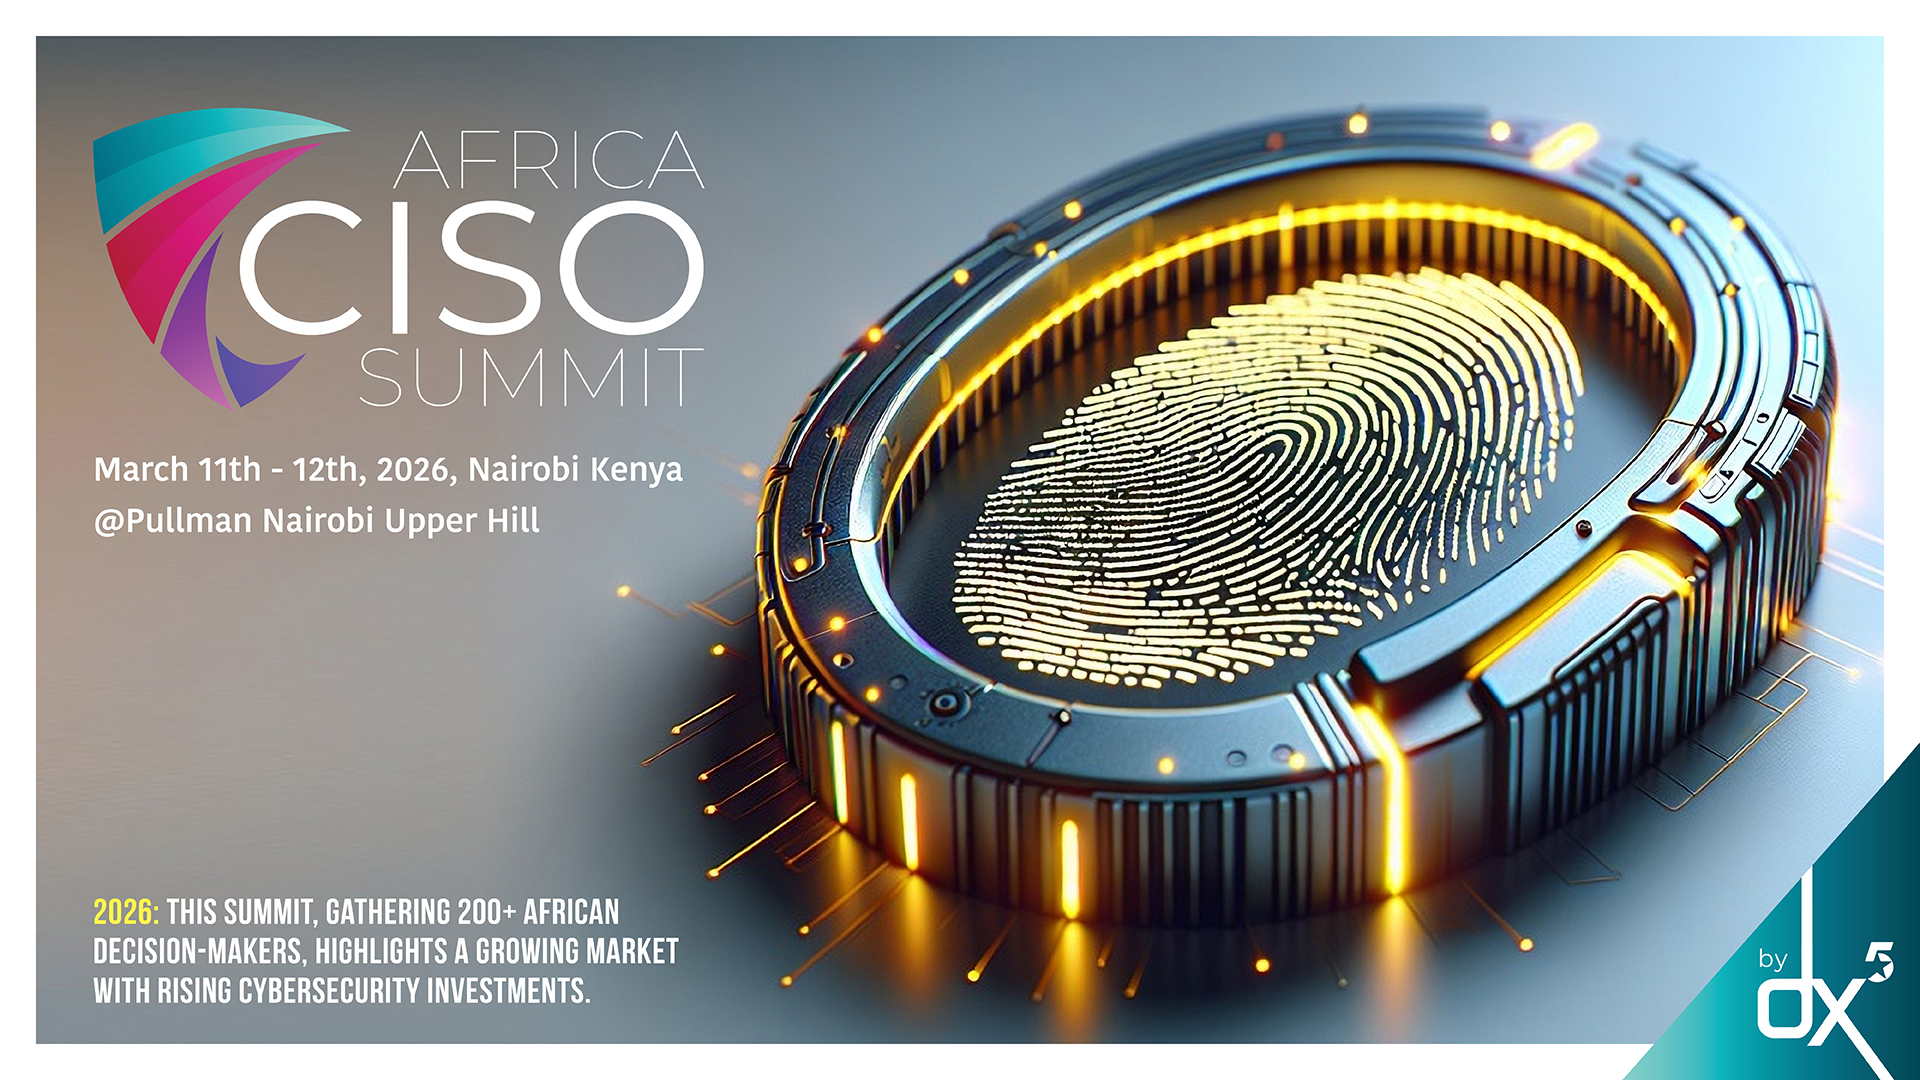
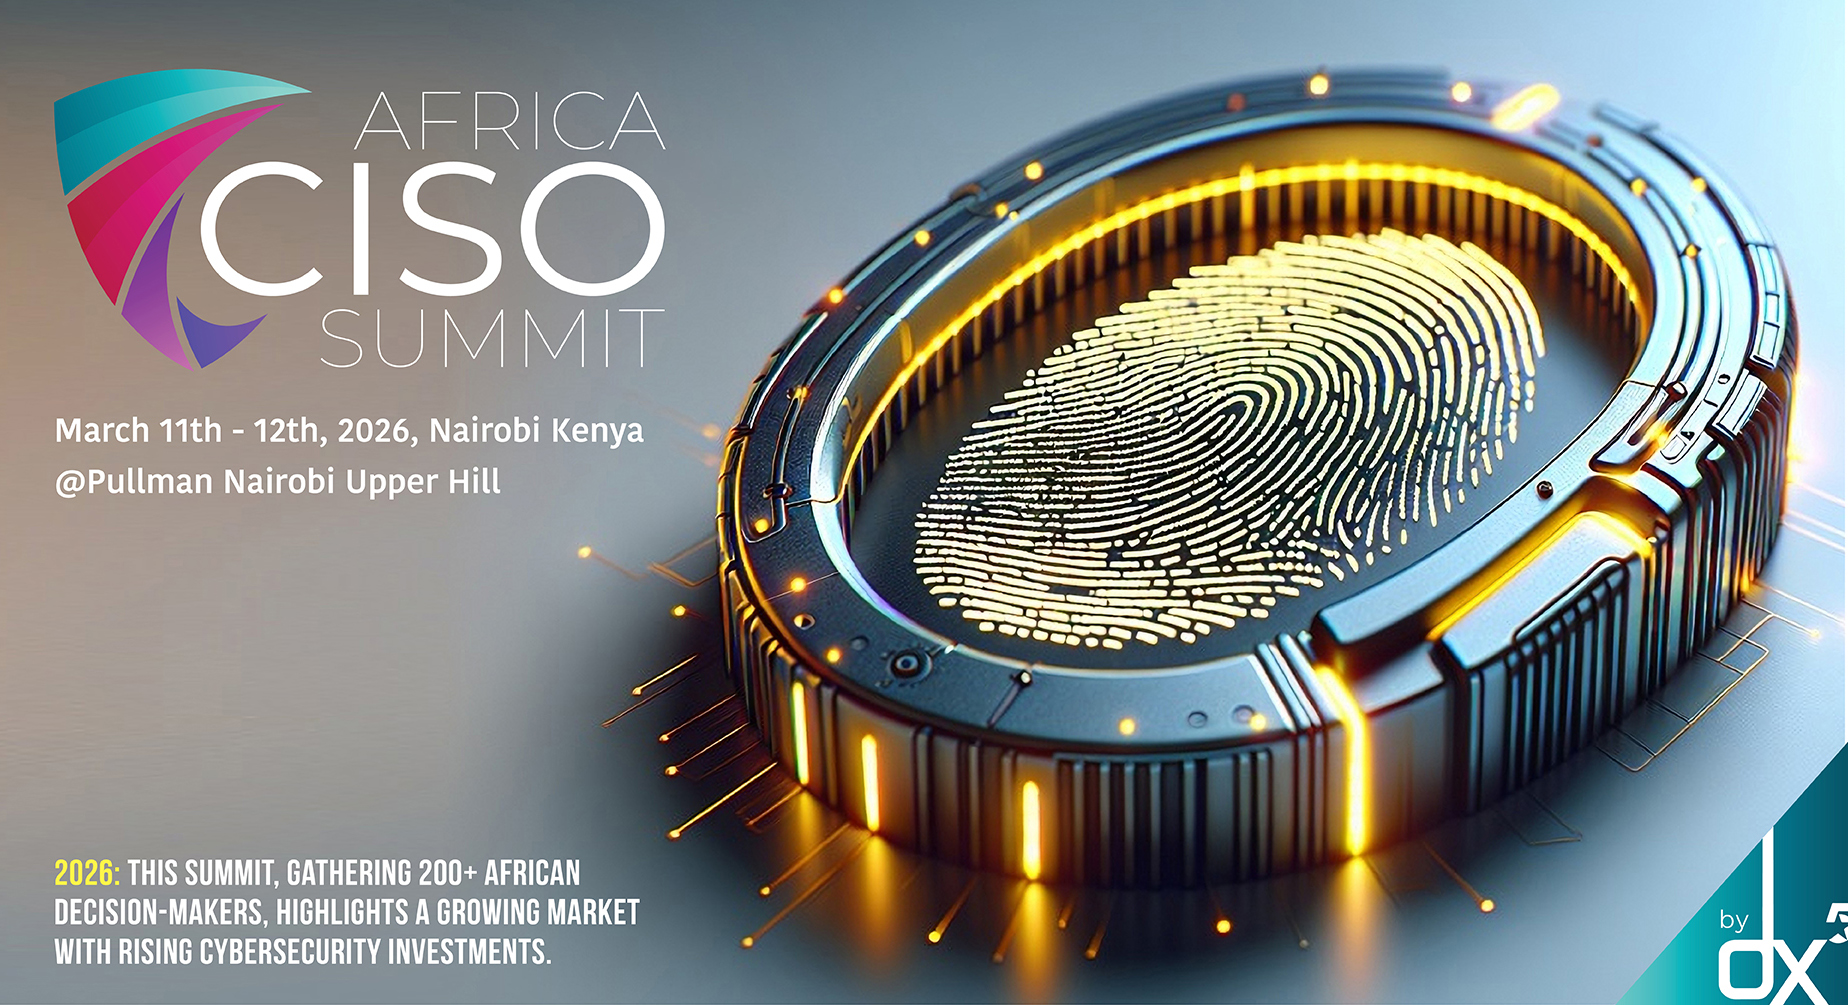
2026 CISO ready

diff --git a/lib/widgets/speakerWidget.dart b/lib/widgets/speakerWidget.dart
@@ -1,10 +1,12 @@
 import 'package:dx5veevents/widgets/showMoreText.dart';
 import 'package:flutter/material.dart';
+import 'package:intl/intl.dart';
 import 'package:provider/provider.dart';
 import 'package:shimmer/shimmer.dart';
 
 import '../constants.dart';
 import '../helpers/helper_functions.dart';
+import '../models/agendaModel.dart';
 import '../providers/themeProvider.dart';
 
 speakerWidget({
@@ -14,7 +16,7 @@ speakerWidget({
   String? bio,
   required String linkedinurl,
   required String imageURL,
-  List<String>? topics,
+  List<SpeakerSession>? sessions,
   // required List<String> interests,
 }) {
   final themeProvider = Provider.of<ThemeProvider>(context);
@@ -67,7 +69,7 @@ speakerWidget({
               ],
             ),verticalSpace(height: 10),
             bio==""?const Text(""):ShowMoreText(text: bio??"",),
-            if (topics != null && topics.isNotEmpty) ...[
+            if (sessions != null && sessions.isNotEmpty) ...[
               verticalSpace(height: 12),
               Row(
                 children: [
@@ -85,7 +87,7 @@ speakerWidget({
                 ],
               ),
               verticalSpace(height: 6),
-              ...topics.map((topic) => Padding(
+              ...sessions.map((session) => Padding(
                 padding: const EdgeInsets.only(bottom: 6),
                 child: Container(
                   width: double.infinity,
@@ -98,9 +100,34 @@ speakerWidget({
                       width: 0.5,
                     ),
                   ),
-                  child: Text(
-                    topic,
-                    style: const TextStyle(fontSize: 12, color: kTextColorBlack),
+                  child: Column(
+                    crossAxisAlignment: CrossAxisAlignment.start,
+                    children: [
+                      Text(
+                        session.title,
+                        style: const TextStyle(fontSize: 12, color: kTextColorBlack),
+                      ),
+                      verticalSpace(height: 4),
+                      Row(
+                        children: [
+                          Icon(Icons.calendar_today_outlined, size: 10, color: kTextColorGrey),
+                          horizontalSpace(width: 3),
+                          Text(
+                            DateFormat('EEE, MMM d').format(session.date),
+                            style: const TextStyle(fontSize: 10, color: kTextColorGrey),
+                          ),
+                          if (session.startTime.isNotEmpty) ...[
+                            horizontalSpace(width: 8),
+                            Icon(Icons.access_time, size: 10, color: kTextColorGrey),
+                            horizontalSpace(width: 3),
+                            Text(
+                              '${convertToAmPm(session.startTime)} - ${convertToAmPm(session.endTime)}',
+                              style: const TextStyle(fontSize: 10, color: kTextColorGrey),
+                            ),
+                          ],
+                        ],
+                      ),
+                    ],
                   ),
                 ),
               )),

diff --git a/lib/screens/dx5veScreens/eventSpeakersScreen.dart b/lib/screens/dx5veScreens/eventSpeakersScreen.dart
@@ -117,21 +117,30 @@ class _EventSpeakersScreenState extends State<EventSpeakersScreen> {
     }
   }
 
-  // Returns every session title in the agenda where this speaker appears.
-  List<String> _getTopicsForSpeaker(int speakerId) {
-    final titles = <String>[];
+  // Returns every session (with date & time) in the agenda where this speaker appears.
+  List<SpeakerSession> _getTopicsForSpeaker(int speakerId) {
+    final sessions = <SpeakerSession>[];
     for (final day in _agendaDays) {
       for (final session in day.sessions) {
         if (session.speakers == null) continue;
         final inSession = session.speakers!.any(
           (a) => a.speaker.key == speakerId,
         );
-        if (inSession && session.title != null && !titles.contains(session.title)) {
-          titles.add(session.title);
+        if (inSession && session.title != null) {
+          final title = session.title as String;
+          final alreadyAdded = sessions.any((s) => s.title == title);
+          if (!alreadyAdded) {
+            sessions.add(SpeakerSession(
+              title: title,
+              date: day.date as DateTime,
+              startTime: session.startTime?.toString() ?? '',
+              endTime: session.endTime?.toString() ?? '',
+            ));
+          }
         }
       }
     }
-    return titles;
+    return sessions;
   }
 
   void filterData(String query) {
@@ -214,7 +223,7 @@ class _EventSpeakersScreenState extends State<EventSpeakersScreen> {
 
                   imageURL: "${BaseURL.Baseurl}/assets/${speaker!.photo!}",
                   linkedinurl: speaker.linkedinProfile ?? "linkedin.com",
-                  topics: _getTopicsForSpeaker(speaker.id)),
+                  sessions: _getTopicsForSpeaker(speaker.id)),
                 Divider(color: Colors.green,),
                 verticalSpace(height: 10)],);
 

diff --git a/lib/homeScreen.dart b/lib/homeScreen.dart
@@ -104,7 +104,7 @@ class MainScreen extends GetView<MyDrawerController> {
           ),
         ) ,
         backgroundColor: kConnectedBlue,centerTitle: true,
-        title:  const Text("CIO100 SYMPOSIUM AND AWARDS",style: TextStyle(fontSize: 15,fontWeight: FontWeight.w600),),
+        title:   Text(eventName,style: const TextStyle(fontSize: 15,fontWeight: FontWeight.w600),),
         actions: [NotificationIconButton()],
         // actions:  [Icon(Icons.notification_important_rounded,color: kTextColorBlackLighter,)],
       ),

diff --git a/lib/screens/landingPage2.dart b/lib/screens/landingPage2.dart
@@ -44,10 +44,10 @@ class _ActiveEventsState extends State<ActiveEvents> {
         child: ActiveEventWidget(
           imagePath: 'assets/images/themes/ciso_portrait.jpg',
           dayMonth: 'WED, NOV',
-          date: '19th',
-          endDate: '21ST',
+          date: '11th',
+          endDate: '12th',
           location: 'KENYA',
-          endDayMonth: 'FRI, NOV',
+          endDayMonth: 'THUR, NOV',
           onPressedFunct: () {
             Navigator.of(context).push(
               MaterialPageRoute(

diff --git a/lib/models/agendaModel.dart b/lib/models/agendaModel.dart
@@ -1,3 +1,17 @@
+class SpeakerSession {
+  final String title;
+  final DateTime date;
+  final String startTime;
+  final String endTime;
+
+  SpeakerSession({
+    required this.title,
+    required this.date,
+    required this.startTime,
+    required this.endTime,
+  });
+}
+
 class AgendaModel {
  // final int id;
 

diff --git a/lib/screens/dx5veScreens/eventAgendaScreen.dart b/lib/screens/dx5veScreens/eventAgendaScreen.dart
@@ -64,6 +64,7 @@ class _EventAgendaScreenState extends State<EventAgendaScreen> {
 
   @override
   void initState() {
+    debugPrint("Event dat is ${widget.eventDay}");
     super.initState();
     getAttendeeID();
     setState(() {
